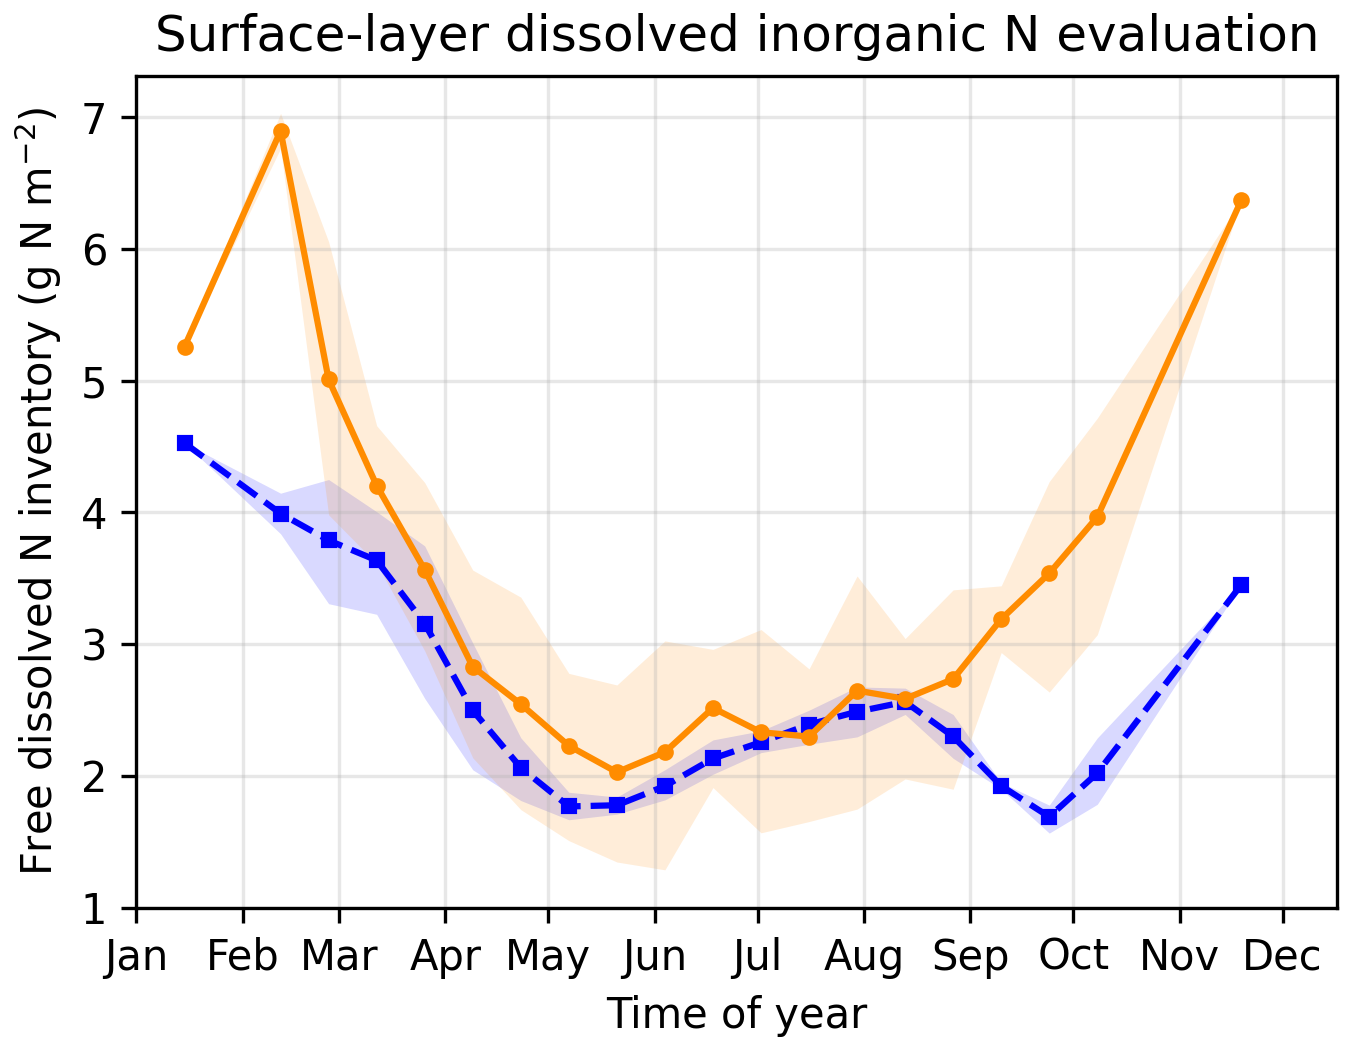
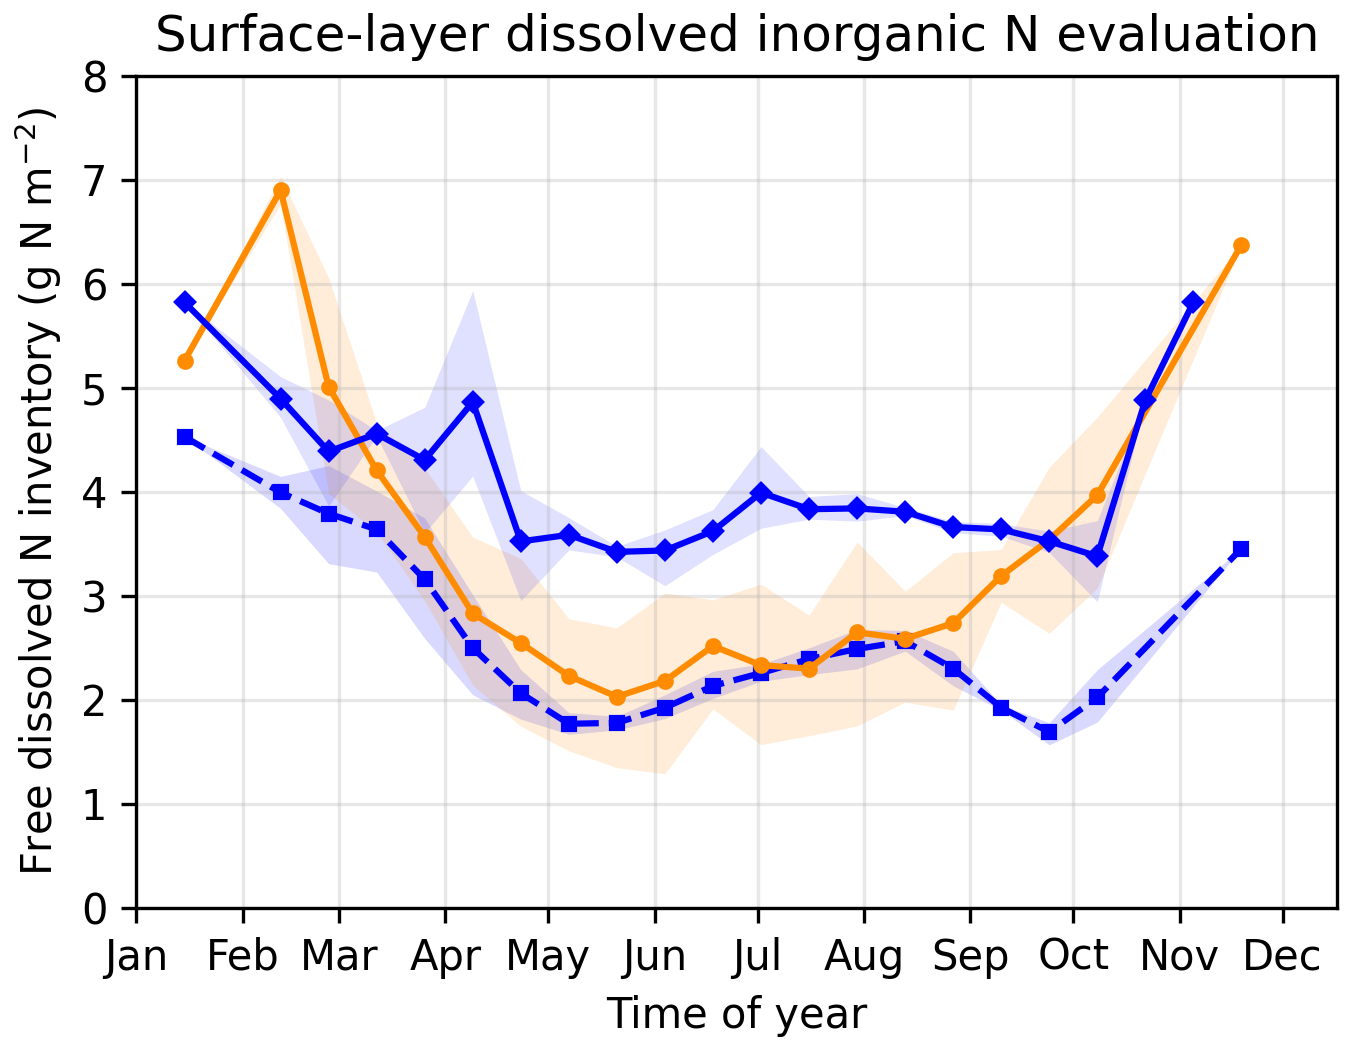
revised nutrient plot

diff --git a/code/evaluation/ecosim_eval_3_nutrients.py b/code/evaluation/ecosim_eval_3_nutrients.py
@@ -749,7 +749,7 @@ def _plot_overlay(
     ax.set_xticks(month_ticks)
     ax.set_xticklabels(month_labels)
 
-
+    ax.set_ylim(0,8)
     ax.set_xlabel("Time of year")
     ax.set_ylabel("Free dissolved N inventory (g N m$^{-2}$)")
     ax.set_title("Surface-layer dissolved inorganic N evaluation")
